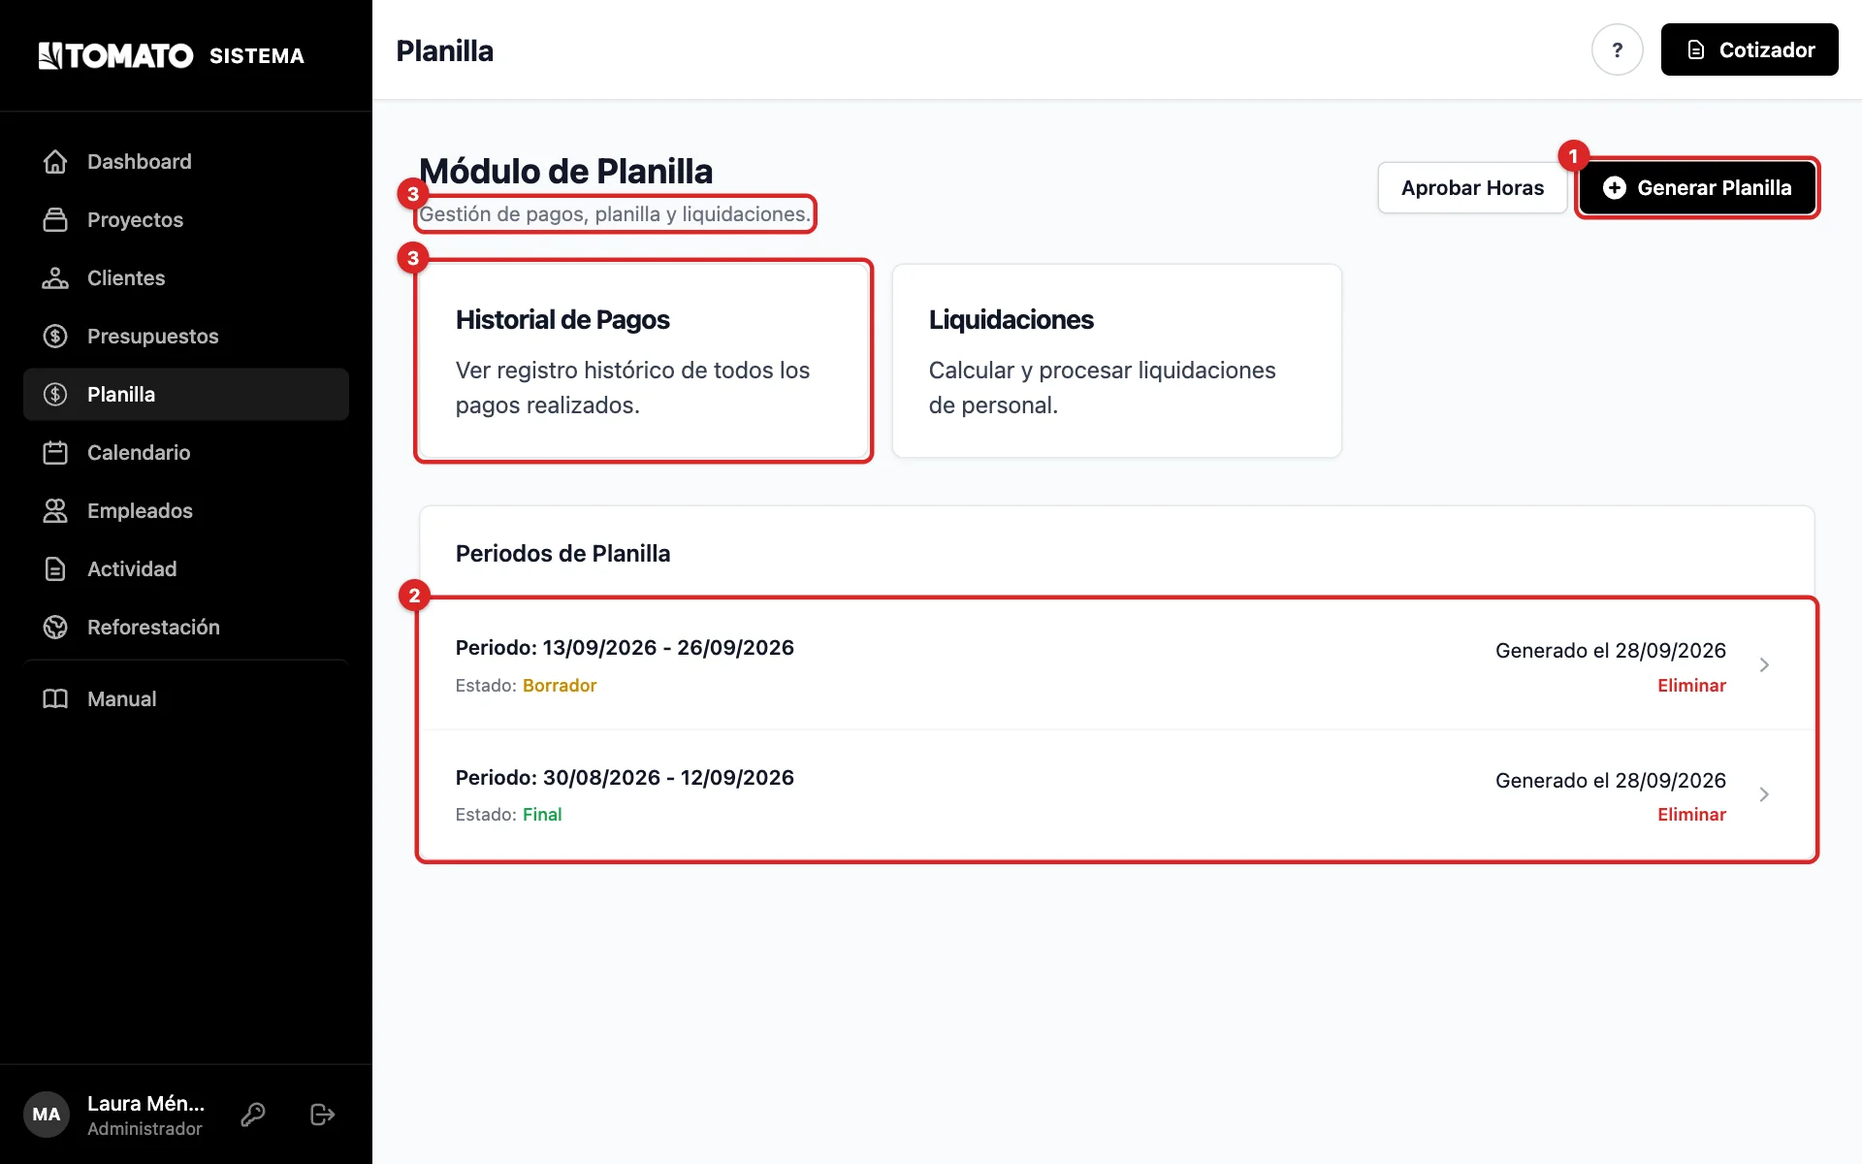
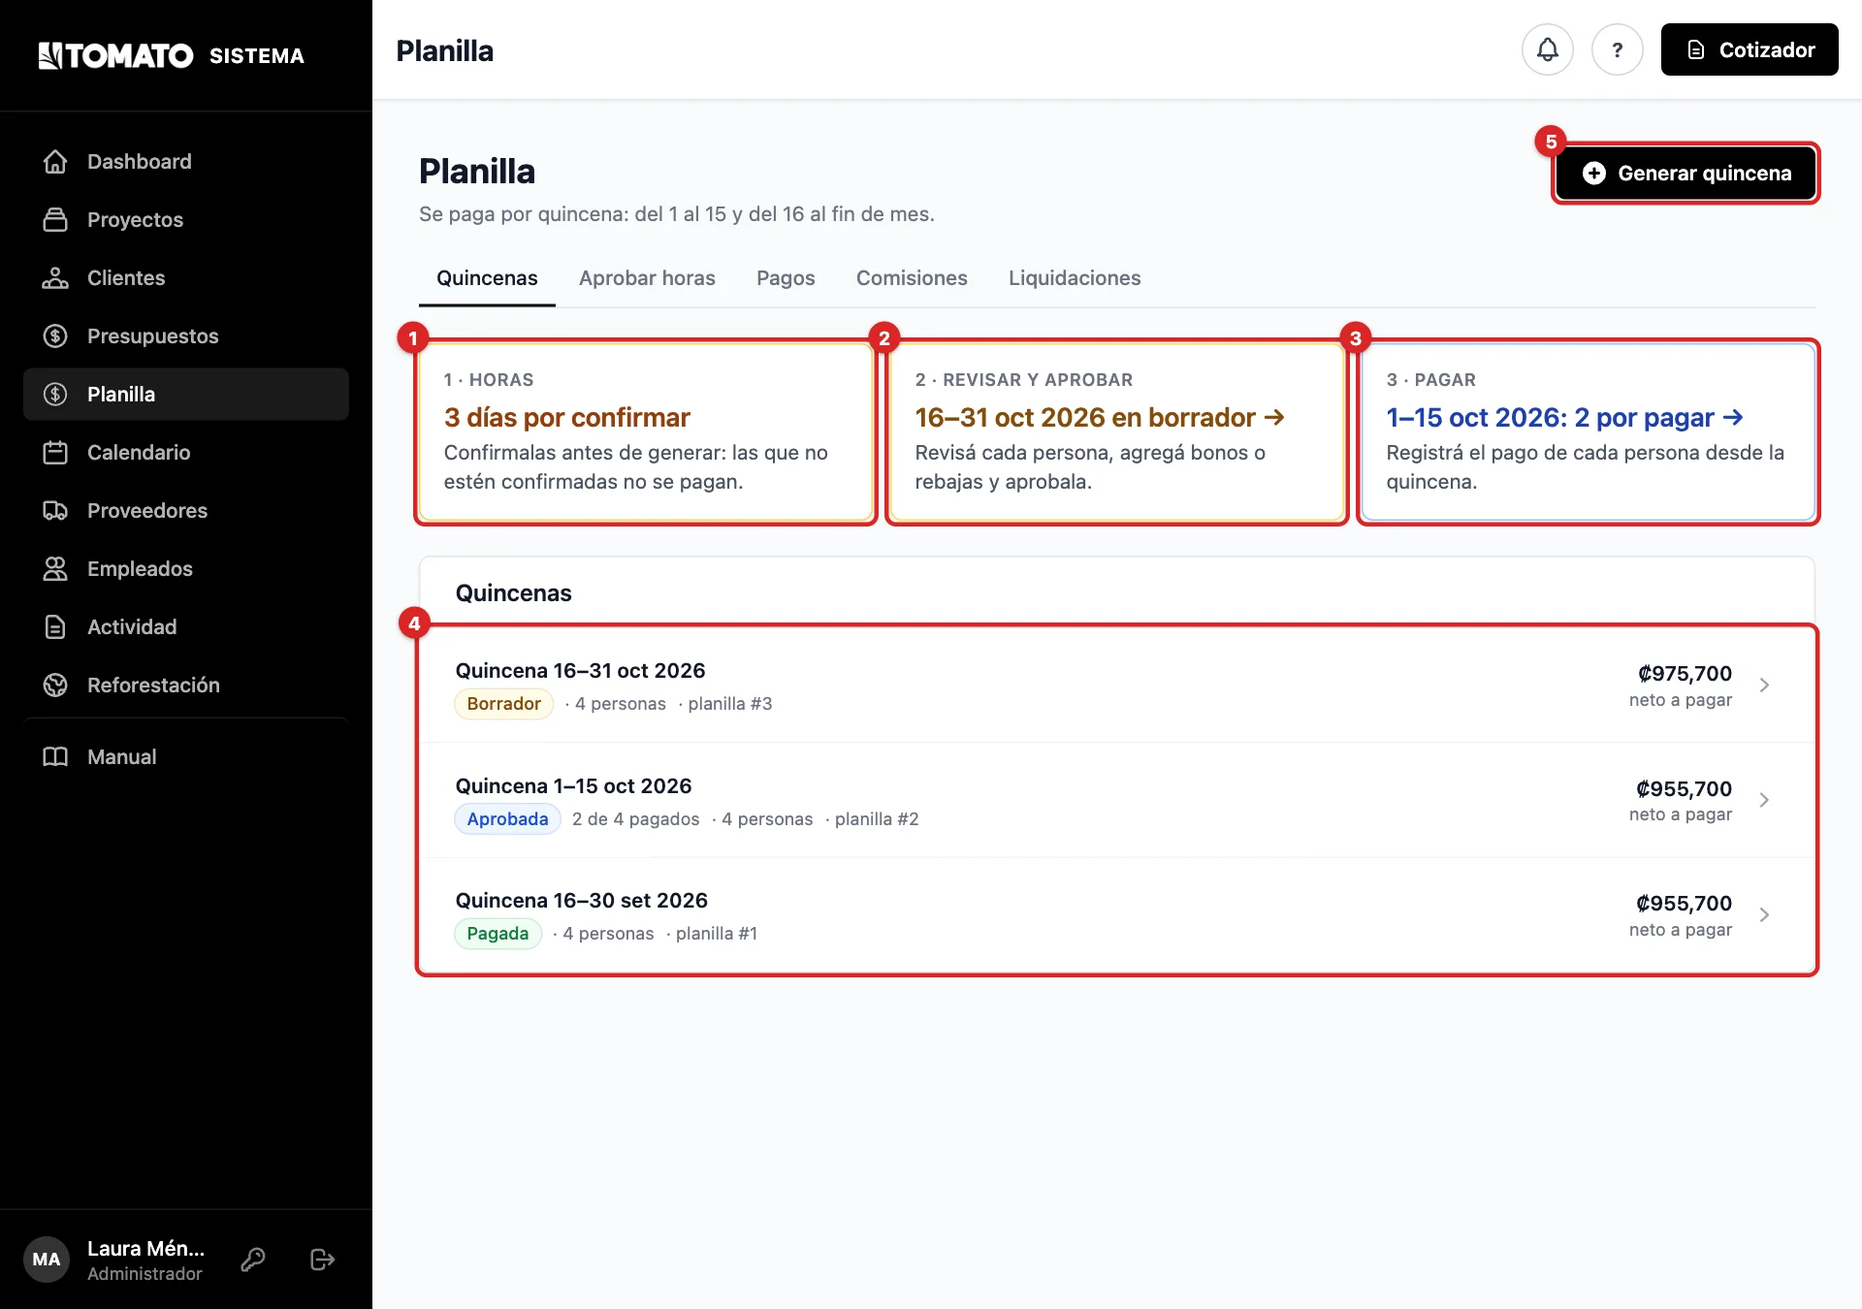
Manual de Planilla con capturas nuevas: Quincenas, detalle en borrador, panel de una persona, Aprobar horas, comprobante del trabajador en el celular y Comisiones, con pasos numerados; datos_demo.py arma la planilla de ejemplo con el código de la app (por hora, por día y mensual, viáticos, comisión,

diff --git a/app/templates/manual/planilla.html b/app/templates/manual/planilla.html
@@ -25,8 +25,17 @@
     <li>Registra el <strong>pago</strong> de cada persona desde la misma quincena; cuando todos tienen el suyo, pasa sola a
         <strong>Pagada</strong>.</li>
 </ol>
-{% if user.role == 'admin' %}<p>La pantalla <strong>Quincenas</strong> muestra arriba esos tres pasos con lo que falta en cada uno: días por
-    confirmar, quincenas en borrador y quincenas con pagos pendientes. Tocá el que corresponda.</p>{% endif %}
+{% if user.role == 'admin' %}
+<p>La pantalla <strong>Quincenas</strong> muestra arriba esos pasos con lo que falta en cada uno. Tocá el que corresponda.</p>
+{{ m.shot("planilla/periodos.webp", "Pantalla Quincenas", "Planilla → Quincenas: qué sigue y la lista de quincenas.") }}
+{{ m.steps([
+    (1, "<strong>Horas</strong>: cuántos días hasta hoy faltan por confirmar. Lleva a <em>Aprobar horas</em>."),
+    (2, "<strong>Revisar y aprobar</strong>: las quincenas en borrador. Tocá una para abrirla."),
+    (3, "<strong>Pagar</strong>: las quincenas aprobadas con pagos pendientes, y cuántas personas faltan."),
+    (4, "Todas las quincenas, la más nueva arriba, con su estado, cuántas personas y el <strong>neto a pagar</strong>."),
+    (5, "<strong>Generar quincena</strong> crea la siguiente (ver abajo)."),
+]) }}
+{% endif %}
 <p>Estados: <strong>Borrador</strong> (se puede revisar y cambiar) → <strong>Aprobada</strong> (ya no se cambia; dice
     cuántos van pagados) → <strong>Pagada</strong>.</p>
 {% call m.warn("Confirmá las horas antes de generar") %}
@@ -37,8 +46,11 @@
 
 {% call m.section("aprobar", "Confirmar las horas") %}
 {% if user.role in ['admin', 'supervisor'] %}
+<p>Para un solo día, lo más rápido es el <strong>Calendario</strong>: tocá el proyecto en ese día, corregí las horas y
+    tocá <em>Confirmar horas del día</em>. Para revisar varios días juntos: Planilla → <strong>Aprobar horas</strong> y elegí
+    el proyecto (cada tarjeta dice cuántos días tiene por confirmar; esos van primero).</p>
+{{ m.shot("planilla/aprobar.webp", "Aprobar horas de un proyecto", "Aprobar horas, con un proyecto abierto.") }}
 {{ m.steps([
-    (None, "Para un solo día, lo más rápido es el <strong>Calendario</strong>: tocá el proyecto en ese día, corregí las horas y tocá <em>Confirmar horas del día</em>. Para revisar varios días juntos: Planilla → <strong>Aprobar horas</strong> y elegí el proyecto (cada tarjeta dice cuántos días tiene por confirmar; esos van primero)."),
     (1, "Se abre con <strong>esta quincena</strong> hasta hoy. Cambiá las fechas, o tocá <em>Hoy</em>, <em>Esta quincena</em> o <em>Quincena anterior</em>; <em>Refrescar</em> vuelve a cargar."),
     (2, "Corregí las <strong>Horas</strong> y las horas <strong>Extra (1.5x)</strong> de cada persona si no fueron las 8 de siempre."),
     (3, "Tocá <strong>Confirmar pendientes</strong> y aceptá el aviso. Las filas pasan a <em>Confirmado</em>."),
@@ -54,12 +66,25 @@
 
 {% call m.section("generar", "Generar, revisar y aprobar la quincena") %}
 {% if user.role == 'admin' %}
+<p><strong>Generar quincena</strong> (en Quincenas): las fechas vienen puestas con la quincena actual; <em>Quincena
+    anterior</em> cambia a la de antes. Tocá <em>Generar</em>: se abre en <em>Borrador</em> para revisarla. Si quedan días sin
+    confirmar, la ventana te avisa.</p>
+{{ m.shot("planilla/detalle.webp", "Detalle de una quincena en borrador", "Una quincena en borrador.") }}
 {{ m.steps([
-    (1, "<strong>Generar quincena</strong>: las fechas vienen puestas con la quincena actual; <em>Quincena anterior</em> cambia a la de antes. Tocá <em>Generar</em>: se abre en <em>Borrador</em> para revisarla. Si quedan días sin confirmar, la ventana te avisa."),
-    (2, "Arriba: <strong>Neto a pagar</strong>, el bruto, la CCSS de los trabajadores y el <strong>costo para la empresa</strong> (<em>Ver desglose</em>: cargas patronales 26,67 %, previsiones 18 % y viáticos)."),
-    (3, "Una fila por persona: salario, bonos y ajustes, CCSS, viáticos y rebajas, y <strong>neto</strong>. En el celular, una tarjeta por persona."),
-    (4, "<strong>Tocá a una persona</strong> para abrir su panel: el cálculo paso a paso, <em>Rebajar CCSS</em>, sus bonos, viáticos y rebajas (agregar o quitar), los días trabajados y su comprobante."),
-    (5, "<strong>Aprobar quincena</strong> la cierra: ya no se cambia. Solo las quincenas aprobadas cuentan como costo de los proyectos en Presupuestos."),
+    (1, "Arriba: <strong>Neto a pagar</strong>, el bruto, la CCSS de los trabajadores y el <strong>costo para la empresa</strong> (<em>Ver desglose</em>: cargas patronales 26,67 %, previsiones 18 % y viáticos)."),
+    (2, "Una fila por persona, con su forma de pago: salario, bonos y ajustes, CCSS, viáticos y rebajas, y <strong>neto</strong>. En el celular, una tarjeta por persona."),
+    (3, "<strong>Tocá a una persona</strong> para abrir su panel (abajo)."),
+    (4, "<strong>Aprobar quincena</strong> la cierra: ya no se cambia. Solo las quincenas aprobadas cuentan como costo de los proyectos en Presupuestos."),
+    (5, "<em>Listado de pago</em>, <em>Comprobantes</em> y <em>Descargar Excel</em>, para pagar y archivar."),
+]) }}
+<p><strong>El panel de una persona</strong>:</p>
+{{ m.shot("planilla/panel.webp", "Panel de una persona en la quincena", "El panel de una persona, en una quincena en borrador.") }}
+{{ m.steps([
+    (1, "<strong>Cálculo</strong> paso a paso: salario (horas, días o media quincena), extras, bonos, bruto, CCSS, viáticos y rebajas, y el neto."),
+    (2, "<strong>Rebajar CCSS</strong>: desmarcalo si a esa persona no le corresponde (solo en borrador)."),
+    (3, "Sus <strong>bonos, viáticos y rebajas</strong> en esta quincena; <em>Quitar</em> saca una."),
+    (4, "<strong>Agregar a esta quincena</strong>: tipo, monto y detalle. Los totales se recalculan solos."),
+    (5, "<em>Días trabajados</em> (fecha, proyecto, horas y extras) y <em>Ver comprobante</em>. En una quincena aprobada, aquí también se registra su pago."),
 ]) }}
 <p><strong>Para pagar y archivar</strong>: <em>Listado de pago</em> (quién, cómo y cuánto, para imprimir o hacer las
     transferencias), <em>Comprobantes</em> (uno por persona, una página cada uno, para imprimir o guardar en PDF) y
@@ -92,7 +117,9 @@
     borrador todavía puede cambiar, por eso aparece cuando se aprueba.</p>
 <p>Al abrir una ves tu <strong>comprobante</strong>: salario, extras, bonos, CCSS, viáticos y rebajas, el
     <strong>neto a pagar</strong>, cómo se te paga y los días trabajados. <em>Imprimir o guardar en PDF</em> lo abre para
-    imprimir. Arriba ves tus <strong>vacaciones disponibles</strong>: 1 día por mes trabajado menos los que ya tomaste.</p>
+    imprimir. En <em>Mis quincenas</em> ves tus <strong>vacaciones disponibles</strong>: 1 día por mes trabajado menos los que
+    ya tomaste.</p>
+{{ m.shot("planilla/trabajador.webp", "Comprobante de una quincena en el celular", "Una quincena aprobada, vista por el trabajador en el celular.", mobile=True) }}
 {% endif %}
 {% endcall %}
 
@@ -133,9 +160,11 @@
 <p>Cada comisión entra <strong>sola</strong> en la próxima planilla del vendedor como línea <em>Comisión</em> (suma al
     bruto: lleva CCSS y cuenta para el aguinaldo).</p>
 {% if user.role == 'admin' %}
+{{ m.shot("planilla/comisiones.webp", "Pantalla Comisiones", "Planilla → Comisiones.") }}
 {{ m.steps([
-    (None, "Planilla → <strong>Comisiones</strong>: las <em>Reglas generales</em> (% por factura y monto por cliente nuevo; en 0 no se genera) y quién gana cuánto. Cada persona puede tener las suyas en Empleados → <em>Comisiones propias</em>. Un administrador no gana comisiones salvo con las suyas."),
-    (None, "La lista dice de cada comisión: fecha de cobro, vendedor, cliente, factura, base sin IVA, monto y estado: <em>Para la próxima planilla</em>, <em>En planilla (borrador)</em> o <em>Pagada</em> con el número de planilla."),
+    (1, "Las <strong>Reglas generales</strong>: % por factura y monto por cliente nuevo; en 0 no se genera."),
+    (2, "<strong>Quién gana comisiones</strong> y cuánto. Cada persona puede tener las suyas en Empleados → <em>Comisiones propias</em>. Un administrador no gana comisiones salvo con las suyas."),
+    (3, "La lista dice de cada comisión: fecha de cobro, vendedor, cliente, factura, base sin IVA, monto y estado: <em>Para la próxima planilla</em>, <em>En planilla (borrador)</em> o <em>Pagada</em> con el número de planilla."),
     (None, "<strong>Anular</strong> (con motivo), por ejemplo si se anuló la factura o se devolvió el pago: si todavía no se pagó, sale de la planilla; si ya se pagó, queda <em>Revertida</em> y se descuenta en la próxima planilla del vendedor."),
 ]) }}
 {% elif user.sells %}

diff --git a/scripts/manual/datos_demo.py b/scripts/manual/datos_demo.py
@@ -73,8 +73,7 @@ def fill():
     from app.db.models.crm import (Account, Contact, CrmActivity, CrmAssignment, CrmSetting, Opportunity,
                                    ProjectContactRole, stage_index)
     from app.db.models.finance import BudgetLine, Invoice, InvoiceStatus, Payment, ProjectBudget, ProjectCost
-    from app.db.models.payment import PayrollPayment
-    from app.db.models.payroll import PayrollEntry, PayrollPeriod
+    from app.db.models.payroll import PayrollPeriod
     from app.db.models.reforestation import ReforestationProject, ReforestationTree, TreeCheck
     from app.db.models.log import DailyLog, Photo
     from app.db.models.log_task import DailyLogTask
@@ -260,12 +259,24 @@ def fill():
     db.add(ScheduleTask(schedule_id=schedule.id, description="Corta de zacate"))
 
     # --- Planilla ---------------------------------------------------------------------------
+    # One person per way of paying: Andrés by the hour, María by the day, Carlos and the asesor
+    # Diego monthly (Diego with fixed viáticos and the commissions of the hotel).
+    from app.routers import payroll as payroll_api
+    from app.utils.comisiones import create_for_paid_invoice, set_general_rules
+    from app.utils.planilla import quincena_of
     worker, maria, supervisor = users["worker"], extra_worker, users["supervisor"]
-    for person, start, salary, method, account_no in (
-            (worker, date(2025, 3, 3), 441600, "Sinpe", "8800-7001"), (maria, date(2025, 11, 3), 441600, "Efectivo", None),
-            (supervisor, date(2024, 8, 1), 576000, "Transferencia", "CR05015201001026284066")):
-        person.start_date, person.monthly_salary, person.hourly_rate = start, salary, round(salary / 192 / 100) * 100
-        person.payment_method, person.account_number, person.phone = method, account_no, "8800-9000"
+    for person, start, pay_type, rate, method, account_no in (
+            (worker, date(2025, 3, 3), "hora", 2300, "Sinpe", "8800-7001"),
+            (maria, date(2025, 11, 3), "dia", 18400, "Efectivo", None),
+            (supervisor, date(2024, 8, 1), "mensual", 576000, "Transferencia", "CR05015201001026284066"),
+            (ventas, date(2025, 6, 2), "mensual", 650000, "Transferencia", "CR21015202001026284077")):
+        person.start_date, person.pay_type, person.phone = start, pay_type, "8800-9000"
+        person.payment_method, person.account_number = method, account_no
+        person.hourly_rate = rate if pay_type == "hora" else 0
+        person.daily_rate = rate if pay_type == "dia" else 0
+        person.monthly_salary = rate if pay_type == "mensual" else 0
+    ventas.viatico_quincenal = 25000
+    set_general_rules(db, 3, 20000)
     p3.users = [users["supervisor"], worker]
 
     def weekdays(first, last):
@@ -275,38 +286,68 @@ def fill():
                 yield day
             day += timedelta(days=1)
 
-    confirmed = []
-    for day in weekdays(today - timedelta(days=28), today - timedelta(days=1)):
+    # Three quincenas before this one: paid, approved with some payments, and a draft.
+    draft_q = quincena_of(quincena_of(today)[0] - timedelta(days=1))
+    approved_q = quincena_of(draft_q[0] - timedelta(days=1))
+    paid_q = quincena_of(approved_q[0] - timedelta(days=1))
+    for day in weekdays(paid_q[0], draft_q[1]):
         for person, project, extra in ((worker, p1, 1.0 if day.weekday() == 4 else 0.0), (maria, p2, 0.0),
                                        (supervisor, p1, 0.0)):
-            schedule = ProjectSchedule(project_id=project.id, user_id=person.id, date=day, hours_worked=8,
-                                       overtime_hours=extra, is_confirmed=True)
-            db.add(schedule)
-            confirmed.append(schedule)
-    db.flush()
+            db.add(ProjectSchedule(project_id=project.id, user_id=person.id, date=day, hours_worked=8,
+                                   overtime_hours=extra, is_confirmed=True))
+    # Today's days are still to confirm (Aprobar horas).
+    db.add(ProjectSchedule(project_id=p1.id, user_id=supervisor.id, date=today, hours_worked=8))
 
-    def payroll(first, last, status):
-        period = PayrollPeriod(start_date=first, end_date=last, status=status)
-        db.add(period)
-        db.flush()
-        for person in (worker, maria, supervisor):
-            rows = [s for s in confirmed if s.user_id == person.id and first <= s.date <= last]
-            hours, extra = sum(s.hours_worked for s in rows), sum(s.overtime_hours for s in rows)
-            gross = round((hours * person.hourly_rate + extra * person.hourly_rate * 1.5) / 100) * 100
-            charges = round(gross * 0.0917 / 100) * 100
-            db.add(PayrollEntry(payroll_period_id=period.id, user_id=person.id, total_hours=hours, overtime_hours=extra,
-                                gross_salary=gross, social_charges=charges, net_salary=gross - charges,
-                                apply_deductions=True,
-                                details=[{"date": s.date.isoformat(), "hours": s.hours_worked,
-                                          "overtime": s.overtime_hours,
-                                          "project": p1.name if s.project_id == p1.id else p2.name} for s in rows]))
-        return period
-    payroll(today - timedelta(days=28), today - timedelta(days=15), "final")
-    payroll(today - timedelta(days=14), today - timedelta(days=1), "draft")
-    db.add_all([PayrollPayment(user_id=worker.id, amount=172400, hours_paid=80, overtime_hours=2,
-                               date=today - timedelta(days=13), notes="Quincena por Sinpe", created_by_id=admin.id),
-                PayrollPayment(user_id=maria.id, amount=167000, hours_paid=80, date=today - timedelta(days=13),
-                               notes="Quincena en efectivo", created_by_id=admin.id)])
+    # The hotel's garden: its paid invoice is the asesor's commission in the draft.
+    p5 = Project(name="Jardines Hotel Vista al Volcán", client_display_name=hotel.name, account_id=hotel.id,
+                 province="Alajuela", address="La Garita", is_active=True)
+    db.add(p5)
+    db.flush()
+    hotel_budget = ProjectBudget(project_id=p5.id, start_date=paid_q[0], end_date=paid_q[0] + timedelta(days=365))
+    db.add(hotel_budget)
+    db.flush()
+    hotel_line = BudgetLine(budget_id=hotel_budget.id, name="Mantenimiento mensual de jardines", subtotal=850000,
+                            tax_percentage=13)
+    db.add(hotel_line)
+    db.flush()
+    hotel_paid = draft_q[0] + timedelta(days=3)
+    hotel_invoice = Invoice(budget_id=hotel_budget.id, budget_line_id=hotel_line.id, invoice_number="FE-00139",
+                            amount=960500, issue_date=approved_q[0], due_date=approved_q[0] + timedelta(days=30),
+                            status=InvoiceStatus.PAID)
+    db.add(hotel_invoice)
+    db.flush()
+    db.add(Payment(invoice_id=hotel_invoice.id, payment_date=hotel_paid, amount=960500, deposit_number="TRF-90412"))
+    db.commit()
+
+    # The payrolls go through the app's own code, as the admin would do them.
+    def generate(q):
+        result = payroll_api.generate_payroll(start_date=q[0].isoformat(), end_date=q[1].isoformat(), db=db,
+                                              user=admin)
+        return db.get(PayrollPeriod, result["period_id"])
+
+    def entry_of(period, person):
+        return next(e for e in period.entries if e.user_id == person.id)
+
+    def pay(period, person, day, reference=""):
+        payroll_api.pay_entry(entry_of(period, person).id, payroll_api.EntryPaymentIn(
+            date=day, method=person.payment_method, reference=reference), db=db, user=admin)
+
+    paid = generate(paid_q)
+    payroll_api.confirm_payroll(period_id=paid.id, db=db, user=admin)
+    for person, ref in ((worker, "SINPE 55102"), (maria, ""), (supervisor, "TRF-77310"), (ventas, "TRF-77311")):
+        pay(paid, person, paid_q[1] + timedelta(days=1), ref)
+    approved = generate(approved_q)
+    payroll_api.confirm_payroll(period_id=approved.id, db=db, user=admin)
+    for person, ref in ((worker, "SINPE 58233"), (supervisor, "TRF-78120")):
+        pay(approved, person, approved_q[1] + timedelta(days=1), ref)
+    create_for_paid_invoice(db, hotel_invoice, admin, hotel_paid)
+    db.commit()
+    draft = generate(draft_q)
+    for person, kind, description, amount in (
+            (worker, "bono", "Bono por cumplir todas las visitas", 15000),
+            (worker, "adelanto", f"Adelanto del {draft_q[0] + timedelta(days=6):%d/%m}", 20000)):
+        payroll_api.add_line(entry_of(draft, person).id, payroll_api.LineIn(
+            kind=kind, description=description, amount=amount), db=db, user=admin)
     db.add_all([ProjectCost(project_id=p1.id, date=today - timedelta(days=20), amount=48500,
                             description="Abono orgánico y sustrato"),
                 ProjectCost(project_id=p1.id, date=today - timedelta(days=9), amount=22000,
@@ -342,8 +383,7 @@ def fill():
             ("LOGIN", "SISTEMA", "Inicio de sesión", worker), ("CREATE", "REPORT", "Reporte del proyecto Mantenimiento Condominio Los Robles", worker),
             ("EMAIL", "REPORT", "Reporte enviado a sofia.castro@example.com, jorge.arias@example.com", admin),
             ("PAGO", "Factura", "Pago registrado para la factura FE-00121", admin),
-            ("Aprobar Lote", "SCHEDULE", "10 registros confirmados en Mantenimiento Condominio Los Robles", supervisor),
-            ("Generar Planilla", "PAYROLL", "Periodo del último mes", admin)):
+            ("Aprobar Lote", "SCHEDULE", "10 registros confirmados en Mantenimiento Condominio Los Robles", supervisor)):
         db.add(ActivityLog(user_id=who.id, action=action, entity_type=entity, details=details))
 
     # --- Cotizaciones ----------------------------------------------------------------------

diff --git a/CHANGELOG.md b/CHANGELOG.md
@@ -6,6 +6,16 @@ desplegar. Hora de Costa Rica salvo que diga UTC.
 
 ## 2026-11-02
 
+### Manual de Planilla con capturas nuevas (esta rama)
+- El capítulo **Planilla** del manual vuelve a tener capturas, del diseño actual: Quincenas con
+  los pasos de *Qué sigue*, el detalle de una quincena en borrador, el panel de una persona,
+  Aprobar horas, el comprobante del trabajador en el celular y Comisiones, con pasos numerados
+  que coinciden con las marcas.
+- `scripts/manual/datos_demo.py` arma la planilla de ejemplo con el código de la app: personas
+  por hora, por día y mensuales (un asesor con viáticos y una comisión de factura cobrada), una
+  quincena pagada, una aprobada con pagos a medias y un borrador con bono y adelanto.
+- Despliegue: nada especial.
+
 ### Quincenas pagadas fuera del sistema (esta rama)
 - En una quincena aprobada, **Marcar como pagada fuera del sistema**: pasa a *Pagada* sin
   registrar los pagos de cada persona (para las que se pagaron por fuera, como las de enero y
